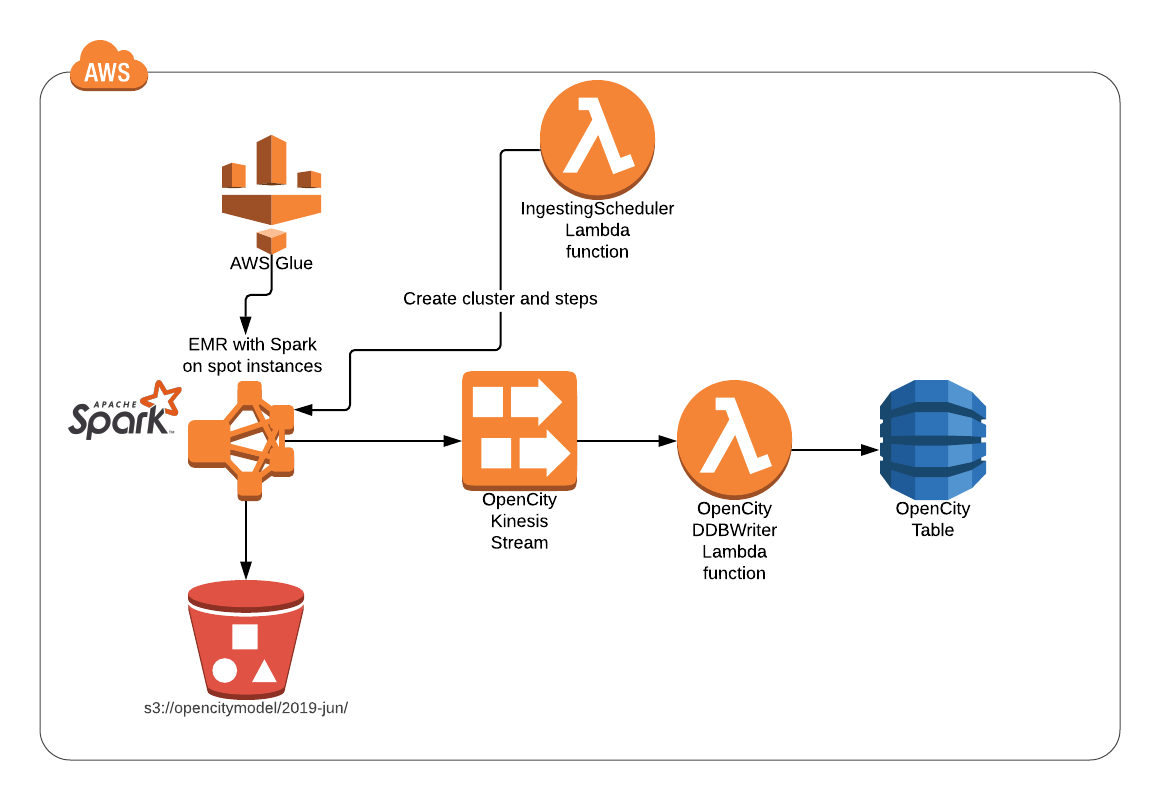
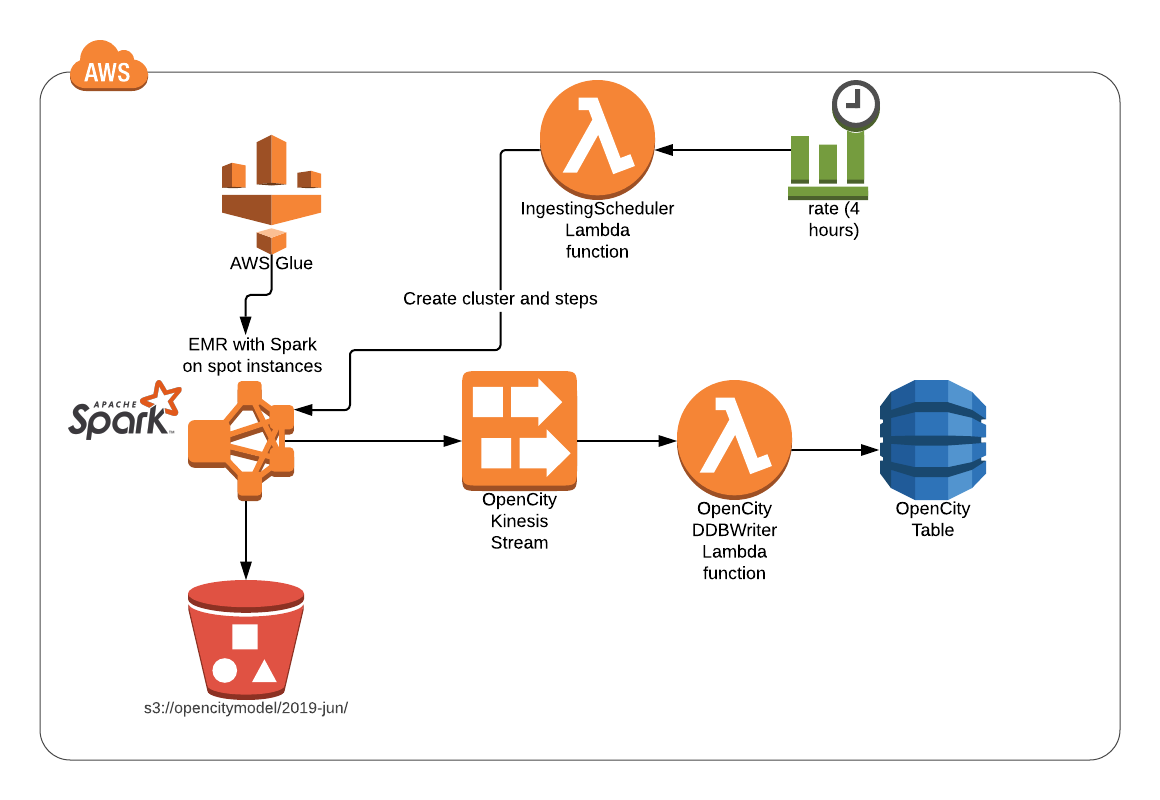
Last fixes

Changed region(s): [[0.6828, 0.0938, 0.7759, 0.3125]]

diff --git a/lambda/lambda_emr_scheduler.py b/lambda/lambda_emr_scheduler.py
@@ -55,7 +55,7 @@ def lambda_handler(event, context):
                     'BidPrice': '0.2',
                     'InstanceRole': 'CORE',
                     'InstanceType': 'm3.xlarge',
-                    'InstanceCount': 4
+                    'InstanceCount': 3
                 }
             ]
         },

diff --git a/README.md b/README.md
@@ -2,6 +2,14 @@
 
 The project uploads [Open City Model database](https://github.com/opencitymodel/opencitymodel) to DynamoDB with EMR, Kinesis and Lambda.
 
+How it works:
+
+1. EMR cluster launched every N hours. The only step it has - Spark job [spark-kinesis-ingester](./spark-kinesis-ingester/).
+2. [spark-kinesis-ingester](./spark-kinesis-ingester/) reads data from S3 Data Lake (tables metadata comes from Glue Data Catalog)
+and puts it into Kinesis stream. [Open City Model](https://github.com/opencitymodel/opencitymodel) data partitioned by US states
+ and on each invocation one random US state data processed.
+3. Lambda function [OpenCityDDBWriter](./lambda/lambda_ddb_writer.py) reads records from the Kinesis stream and puts it into DynamoDB table.  
+
 Overall architecture: 
 
 ![](./architecture.png)
